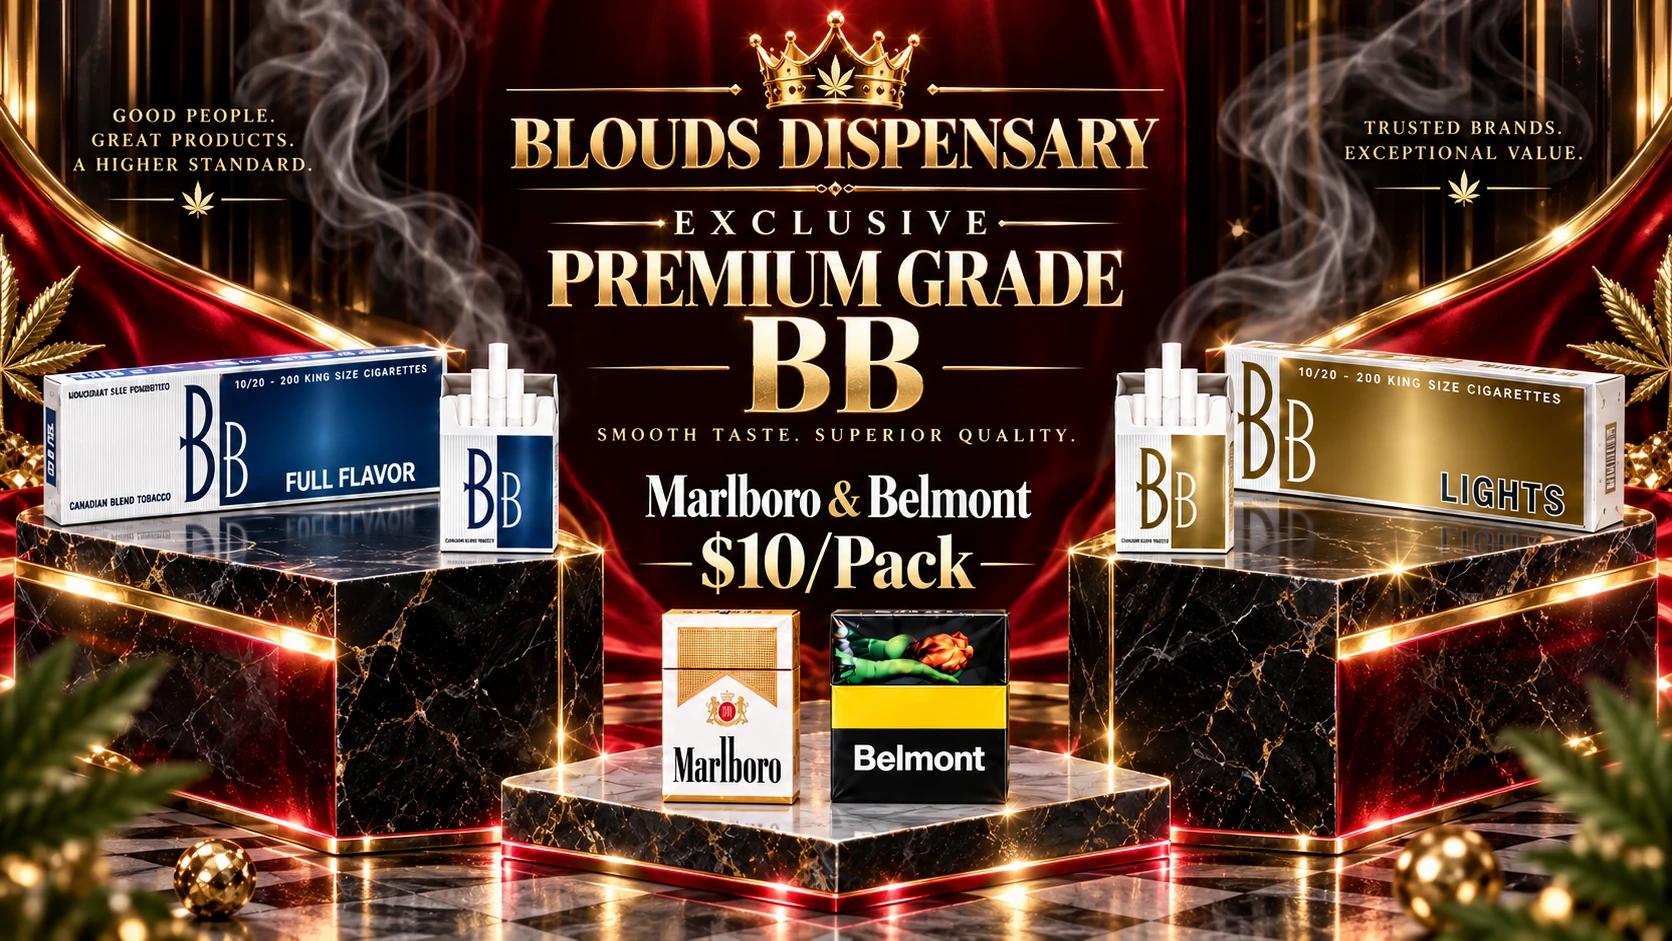
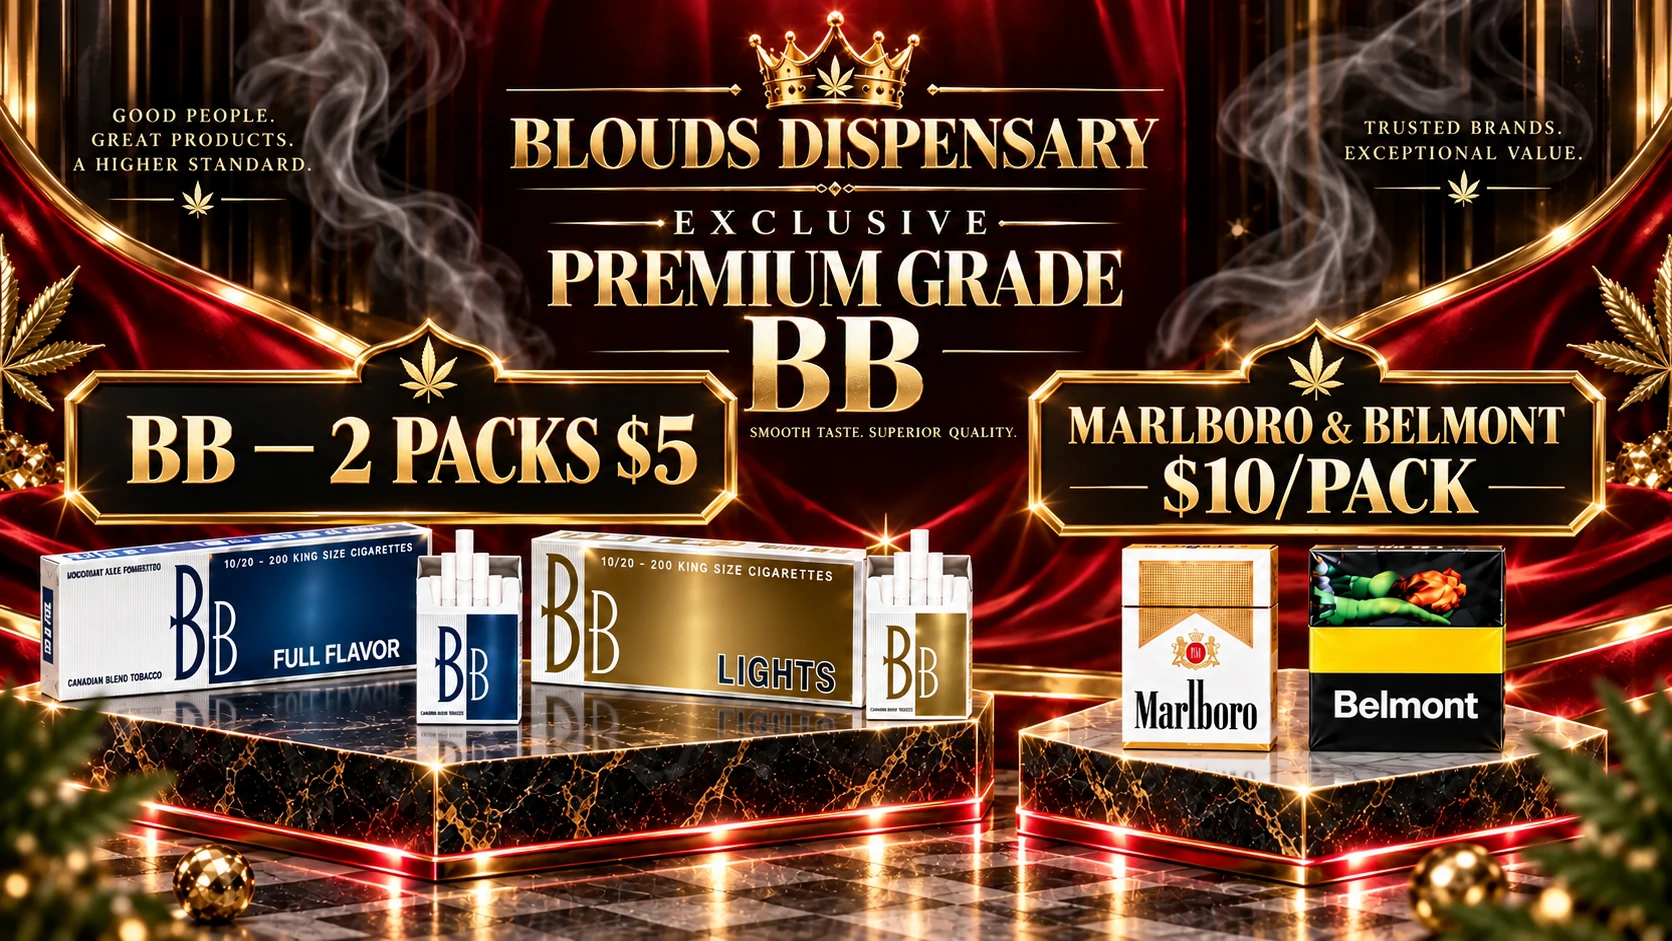
Add core promos to matching categories (#83)

diff --git a/app/components/CategoryCoreBanners.tsx b/app/components/CategoryCoreBanners.tsx
@@ -1,0 +1,52 @@
+import Link from "next/link";
+
+type CategoryCoreBannersProps = { kind: "weed" | "vapes" | "cigarettes" };
+
+const STORE_NAME = "Blouds Dispensary";
+const STORE_AREA = "Queen Street West, Brampton";
+const STORE_ORIGIN = "https://www.bloudsdispensary.ca";
+const TOP_WEED_IMAGE = "/banners/top-weed-tier-bls01.webp";
+const CIGARETTE_IMAGE = "/banners/2pack5cig.webp";
+const VAPE_IMAGE = "/banners/core-vapes-nicotine-thc.webp";
+const PREMIUM_CIGARETTE_IMAGE = "/banners/core-premium-bb-marlboro-belmont.webp";
+
+export const cigaretteCategoryImage = {
+  alt: `${STORE_NAME} in ${STORE_AREA} — 2 packs for $5 mix and match and $25 carton cigarette offer`,
+  title: `${STORE_NAME} cigarette offer — 2 packs $5 mix and match, $25 carton`,
+};
+
+const promos = {
+  weed: { image: TOP_WEED_IMAGE, href: "/exotic-weed", alt: `${STORE_NAME} in ${STORE_AREA} — Exotic, Premium and AAA+ top weed tiers`, title: `${STORE_NAME} top weed tiers — Exotic, Premium and AAA+`, caption: "Exotic, Premium and AAA+ weed", linkLabel: "Shop weed tiers", schemaName: `${STORE_NAME} top weed tiers`, schemaDescription: `Exotic, Premium and AAA+ weed tiers at ${STORE_NAME} in ${STORE_AREA}.` },
+  vapes: { image: VAPE_IMAGE, href: "/items/vapes", alt: `${STORE_NAME} in ${STORE_AREA} — nicotine vapes and THC vapes`, title: `${STORE_NAME} nicotine vapes and THC vapes`, caption: "Nicotine vapes + THC vapes", linkLabel: "Shop vapes", schemaName: `${STORE_NAME} nicotine and THC vapes`, schemaDescription: `Nicotine vapes and THC vapes at ${STORE_NAME} in ${STORE_AREA}.` },
+  cigarettes: { image: CIGARETTE_IMAGE, href: "/items/cigarettes", alt: cigaretteCategoryImage.alt, title: cigaretteCategoryImage.title, caption: "2 packs $5 mix & match · $25 carton", linkLabel: "Shop cigarettes", schemaName: `${STORE_NAME} cigarette mix and match`, schemaDescription: `Two packs for $5 mix and match and $25 carton cigarette offer at ${STORE_NAME} in ${STORE_AREA}.` },
+  premium: { image: PREMIUM_CIGARETTE_IMAGE, href: "/items/cigarettes", alt: `${STORE_NAME} in ${STORE_AREA} — BB Full Flavor and Lights 2 packs for $5, Marlboro and Belmont $10 per pack`, title: `${STORE_NAME} premium cigarettes — BB 2 packs $5, Marlboro and Belmont $10 per pack`, caption: "BB Full Flavor + Lights — 2 packs $5 · Marlboro & Belmont — $10/pack", linkLabel: "Shop cigarettes", schemaName: `${STORE_NAME} premium cigarette offer`, schemaDescription: `BB Full Flavor and Lights two packs for $5 plus Marlboro and Belmont for $10 per pack at ${STORE_NAME} in ${STORE_AREA}.` },
+} as const;
+
+const figureStyle = { margin: 0, width: "100%" } as const;
+const imageStyle = { display: "block", width: "100%", maxWidth: "100%", height: "auto" } as const;
+const captionStyle = { margin: 0, padding: "14px 18px", background: "#111827", color: "#ffffff", textAlign: "center" as const, fontSize: "clamp(17px, 1.7vw, 28px)", fontWeight: 800, lineHeight: 1.35 };
+const captionLinkStyle = { color: "inherit", textDecoration: "underline", textUnderlineOffset: "3px" } as const;
+
+function PromoFigure({ promo, renderImage = true }: { promo: (typeof promos)[keyof typeof promos]; renderImage?: boolean }) {
+  return (
+    <figure data-category-core-banner={promo === promos.premium ? "premium-cigarettes" : promo === promos.cigarettes ? "cigarettes" : promo === promos.vapes ? "vapes" : "weed"} style={figureStyle}>
+      {renderImage ? <Link href={promo.href} aria-label={promo.alt} style={{ display: "block", width: "100%" }}>
+        {/* eslint-disable-next-line @next/next/no-img-element */}
+        <img src={promo.image} alt={promo.alt} title={promo.title} style={imageStyle} loading="lazy" />
+      </Link> : null}
+      <figcaption style={captionStyle}>{promo.caption} · <Link href={promo.href} style={captionLinkStyle}>{promo.linkLabel}</Link></figcaption>
+    </figure>
+  );
+}
+
+export default function CategoryCoreBanners({ kind }: CategoryCoreBannersProps) {
+  const visiblePromos = kind === "cigarettes" ? [promos.cigarettes, promos.premium] : [promos[kind]];
+  const imageObjects = visiblePromos.map((promo) => ({ "@type": "ImageObject", name: promo.schemaName, description: promo.schemaDescription, contentUrl: `${STORE_ORIGIN}${promo.image}` }));
+  return (
+    <section data-category-core-promos={kind} aria-label={`${STORE_NAME} ${kind} promotions`} style={{ width: "100%", maxWidth: "100%", overflowX: "hidden", marginBottom: "24px" }}>
+      <script type="application/ld+json" dangerouslySetInnerHTML={{ __html: JSON.stringify({ "@context": "https://schema.org", "@graph": imageObjects }).replace(/</g, "\\u003c") }} />
+      {kind === "cigarettes" ? <PromoFigure promo={promos.cigarettes} renderImage={false} /> : <PromoFigure promo={promos[kind]} />}
+      {kind === "cigarettes" ? <PromoFigure promo={promos.premium} /> : null}
+    </section>
+  );
+}

diff --git a/app/components/FleetAnnouncementBanner.tsx b/app/components/FleetAnnouncementBanner.tsx
@@ -16,7 +16,7 @@ const imageObjects = [
   { name: `${STORE_NAME} top weed tiers`, description: `Exotic, Premium and AAA+ weed tiers at ${STORE_NAME} in ${STORE_AREA}.`, contentUrl: `${STORE_ORIGIN}${TOP_WEED_IMAGE}` },
   { name: `${STORE_NAME} nicotine and THC vapes`, description: `Nicotine vapes and THC vapes at ${STORE_NAME} in ${STORE_AREA}.`, contentUrl: `${STORE_ORIGIN}${VAPE_IMAGE}` },
   { name: `${STORE_NAME} cigarette mix and match`, description: `Two packs for $5 mix and match and $25 carton cigarette offer at ${STORE_NAME} in ${STORE_AREA}.`, contentUrl: `${STORE_ORIGIN}${CIGARETTE_IMAGE}` },
-  { name: `${STORE_NAME} premium cigarette offer`, description: `BB Full Flavor and Lights plus Marlboro and Belmont cigarette offer at ${STORE_NAME} in ${STORE_AREA}.`, contentUrl: `${STORE_ORIGIN}${PREMIUM_CIGARETTE_IMAGE}` },
+  { name: `${STORE_NAME} premium cigarette offer`, description: `BB Full Flavor and Lights two packs for $5 plus Marlboro and Belmont for $10 per pack at ${STORE_NAME} in ${STORE_AREA}.`, contentUrl: `${STORE_ORIGIN}${PREMIUM_CIGARETTE_IMAGE}` },
 ].map((image) => ({ "@type": "ImageObject", ...image }));
 
 function isThanksgivingNoticeActive(date: Date) {
@@ -29,7 +29,7 @@ function isThanksgivingNoticeActive(date: Date) {
 const figureStyle = { margin: 0, width: "100%" } as const;
 const imageStyle = { display: "block", width: "100%", maxWidth: "100%", height: "auto" } as const;
 const linkStyle = { display: "block", width: "100%" } as const;
-const captionStyle = { margin: 0, padding: "10px 14px", background: "#111827", color: "#ffffff", textAlign: "center" as const, fontWeight: 800, lineHeight: 1.35 };
+const captionStyle = { margin: 0, padding: "14px 18px", background: "#111827", color: "#ffffff", textAlign: "center" as const, fontSize: "clamp(17px, 1.7vw, 28px)", fontWeight: 800, lineHeight: 1.35 };
 const captionLinkStyle = { color: "inherit", textDecoration: "underline", textUnderlineOffset: "3px" } as const;
 
 export default function FleetAnnouncementBanner() {
@@ -72,9 +72,9 @@ export default function FleetAnnouncementBanner() {
       <figure data-core-banner="premium-cigarettes" data-premium-cigarette-banner="" style={figureStyle}>
         <Link href="/items/cigarettes" aria-label={`Shop BB, Marlboro and Belmont cigarette offers at ${STORE_NAME}`} style={linkStyle}>
           {/* eslint-disable-next-line @next/next/no-img-element */}
-          <img src={PREMIUM_CIGARETTE_IMAGE} alt={`${STORE_NAME} in ${STORE_AREA} — BB Full Flavor and Lights, Marlboro and Belmont premium cigarettes`} title={`${STORE_NAME} premium cigarettes — BB, Marlboro and Belmont`} style={imageStyle} loading="lazy" />
+          <img src={PREMIUM_CIGARETTE_IMAGE} alt={`${STORE_NAME} in ${STORE_AREA} — BB Full Flavor and Lights 2 packs for $5, Marlboro and Belmont $10 per pack`} title={`${STORE_NAME} premium cigarettes — BB 2 packs $5, Marlboro and Belmont $10 per pack`} style={imageStyle} loading="lazy" />
         </Link>
-        <figcaption style={captionStyle}>BB Full Flavor + Lights · Marlboro &amp; Belmont $10/pack · <Link href="/items/cigarettes" style={captionLinkStyle}>Shop cigarettes</Link></figcaption>
+        <figcaption style={captionStyle}>BB Full Flavor + Lights — 2 packs $5 · Marlboro &amp; Belmont — $10/pack · <Link href="/items/cigarettes" style={captionLinkStyle}>Shop cigarettes</Link></figcaption>
       </figure>
 
       <FlowerBogoStrip hero />

diff --git a/app/items/[category]/page.tsx b/app/items/[category]/page.tsx
@@ -2,6 +2,7 @@ import { notFound } from "next/navigation";
 import type { Metadata } from "next";
 import Link from "next/link";
 import Navbar from "../../components/Navbar";
+import CategoryCoreBanners, { cigaretteCategoryImage } from "../../components/CategoryCoreBanners";
 import SafeImage from "../../components/SafeImage";
 import { getItemPriceDisplay } from "../../lib/itemPricing";
 import Footer from "../../components/Footer";
@@ -85,7 +86,8 @@ export default async function ItemsCategoryPage({
           <>
             <img
               src={config.banner}
-              alt={config.name}
+              alt={catSlug === "cigarettes" ? cigaretteCategoryImage.alt : config.name}
+              title={catSlug === "cigarettes" ? cigaretteCategoryImage.title : config.name}
               style={{ width: "100%", height: "auto", display: "block", objectFit: "contain" }}
             />
             <div className={styles.heroContent} style={{ background: config.color, padding: "20px 24px", textAlign: "center" }}>
@@ -104,6 +106,9 @@ export default async function ItemsCategoryPage({
           </div>
         )}
       </section>
+
+      {(catSlug === "vapes" || catSlug === "vape-disposables") && <CategoryCoreBanners kind="vapes" />}
+      {catSlug === "cigarettes" && <CategoryCoreBanners kind="cigarettes" />}
 
       {guideGroups.length > 0 && (
         <nav className={styles.guideStrip} aria-label={`${config.name} guides`}>

diff --git a/app/[tier]/page.tsx b/app/[tier]/page.tsx
@@ -2,6 +2,7 @@ import { notFound, permanentRedirect } from "next/navigation";
 import type { Metadata } from "next";
 import Link from "next/link";
 import Navbar from "../components/Navbar";
+import CategoryCoreBanners from "../components/CategoryCoreBanners";
 import Footer from "../components/Footer";
 import FlowerCard from "../components/FlowerCard";
 import SccHubLinks from "../components/SccHubLinks";
@@ -131,6 +132,8 @@ export default async function TierPage({
           className={styles.bannerImg}
         />
       </section>
+
+      {["EXOTIC", "PREMIUM", "AAA+"].includes(tierInfo.key.toUpperCase()) ? <CategoryCoreBanners kind="weed" /> : null}
 
       {/* Hero Content BELOW banner */}
       <section
